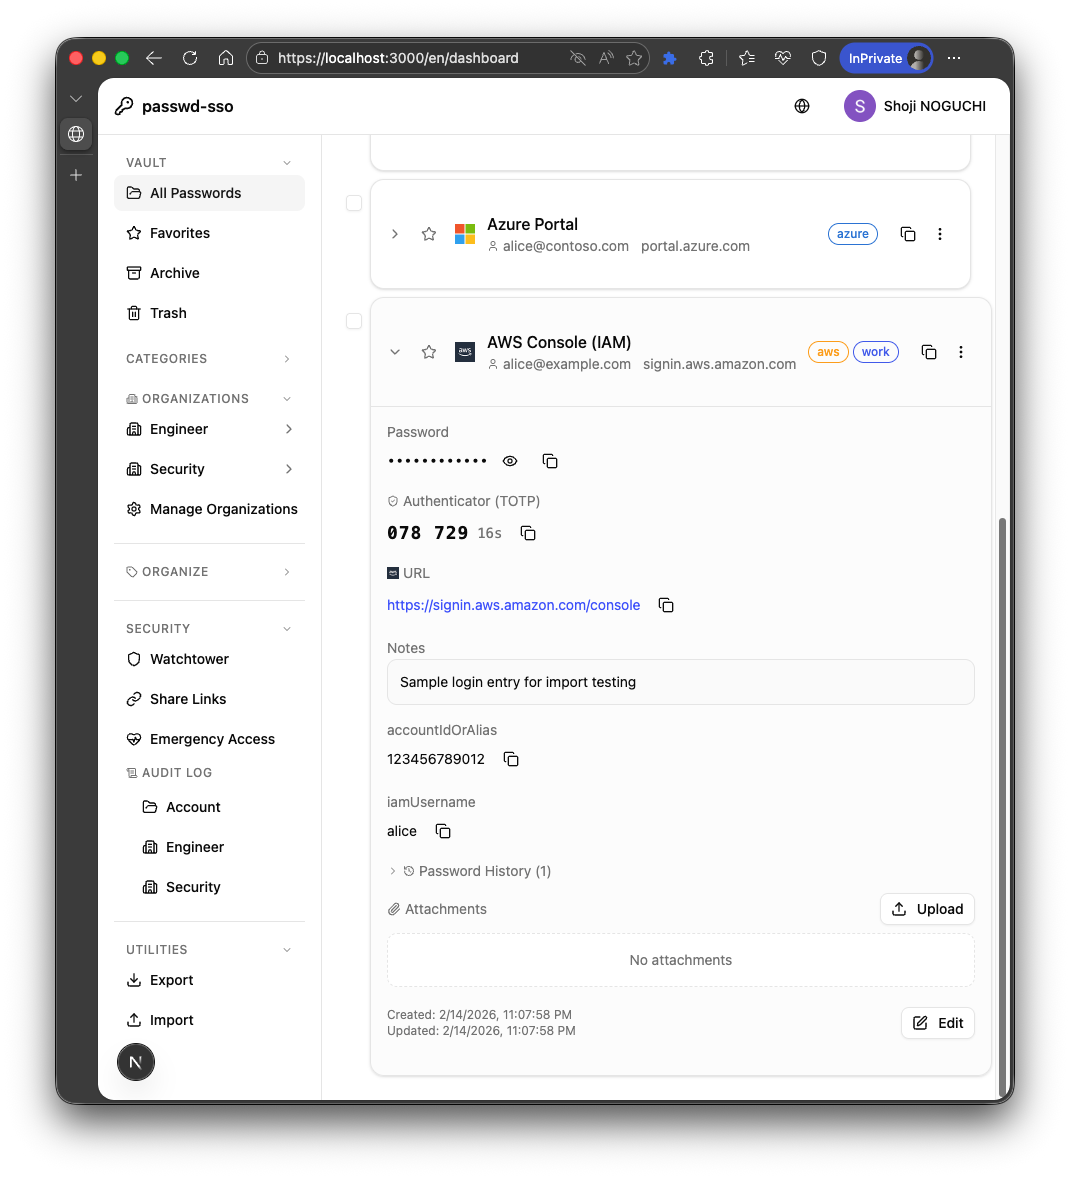
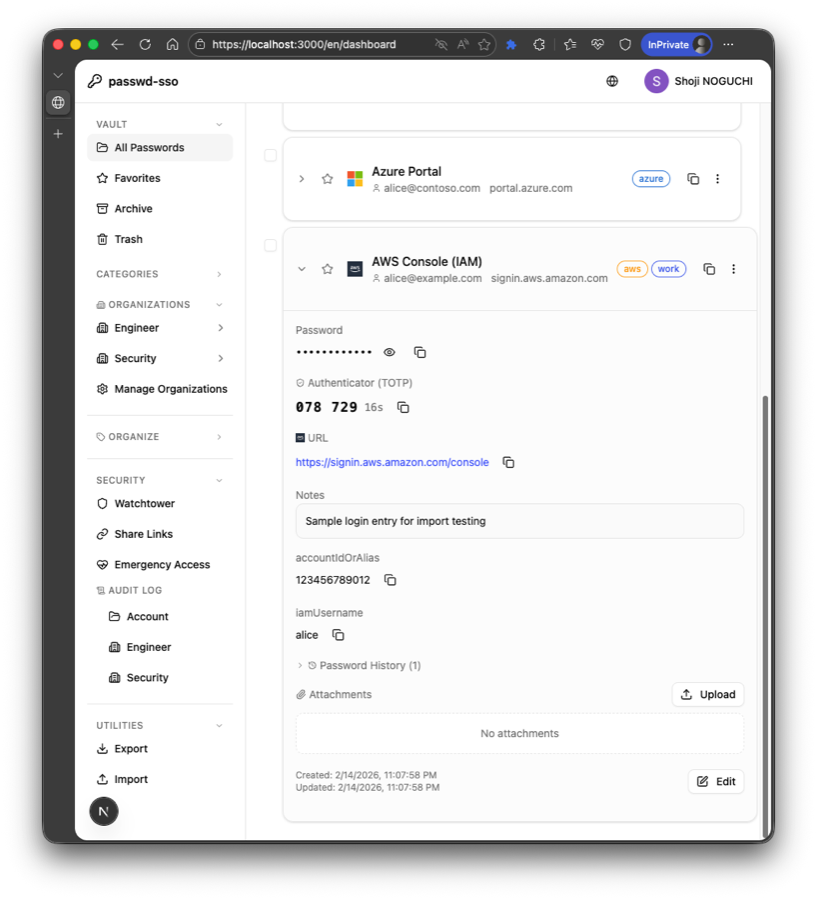
docs: switch README images to markdown and resize screenshots

diff --git a/README.ja.md b/README.ja.md
@@ -178,20 +178,20 @@ npm run build
 
 ### ダッシュボード
 
-<img src="docs/images/passwd-sso-dashboard.png" alt="passwd-sso ダッシュボード" width="900" />
+![passwd-sso ダッシュボード](docs/images/passwd-sso-dashboard.png)
 
 ### エントリー詳細（AWS 3フィールド例）
 
-<img src="docs/images/passwd-sso-entry-detail.png" alt="passwd-sso エントリー詳細" width="900" />
+![passwd-sso エントリー詳細](docs/images/passwd-sso-entry-detail.png)
 
 ### パスワードジェネレーター
 
-<img src="docs/images/passwd-sso-password-generator.png" alt="passwd-sso パスワードジェネレーター" width="900" />
+![passwd-sso パスワードジェネレーター](docs/images/passwd-sso-password-generator.png)
 
 ### 拡張スクリーンショット（AWS IAM 3フィールド補完）
 
-<img src="docs/images/passwd-sso-extension-aws-fill-1.png" alt="passwd-sso 拡張 aws 補完 1" width="420" />
-<img src="docs/images/passwd-sso-extension-aws-fill-2.png" alt="passwd-sso 拡張 aws 補完 2" width="420" />
+![passwd-sso 拡張 aws 補完 1](docs/images/passwd-sso-extension-aws-fill-1.png)
+![passwd-sso 拡張 aws 補完 2](docs/images/passwd-sso-extension-aws-fill-2.png)
 
 ## スクリプト
 

diff --git a/README.md b/README.md
@@ -178,20 +178,20 @@ npm run build
 
 ### Dashboard
 
-<img src="docs/images/passwd-sso-dashboard.png" alt="passwd-sso dashboard" width="900" />
+![passwd-sso dashboard](docs/images/passwd-sso-dashboard.png)
 
 ### Entry Detail (AWS 3-field example)
 
-<img src="docs/images/passwd-sso-entry-detail.png" alt="passwd-sso entry detail" width="900" />
+![passwd-sso entry detail](docs/images/passwd-sso-entry-detail.png)
 
 ### Password Generator
 
-<img src="docs/images/passwd-sso-password-generator.png" alt="passwd-sso password generator" width="900" />
+![passwd-sso password generator](docs/images/passwd-sso-password-generator.png)
 
 ### Extension Screenshots (AWS IAM 3-field fill)
 
-<img src="docs/images/passwd-sso-extension-aws-fill-1.png" alt="passwd-sso extension aws fill 1" width="420" />
-<img src="docs/images/passwd-sso-extension-aws-fill-2.png" alt="passwd-sso extension aws fill 2" width="420" />
+![passwd-sso extension aws fill 1](docs/images/passwd-sso-extension-aws-fill-1.png)
+![passwd-sso extension aws fill 2](docs/images/passwd-sso-extension-aws-fill-2.png)
 
 ## Scripts
 
